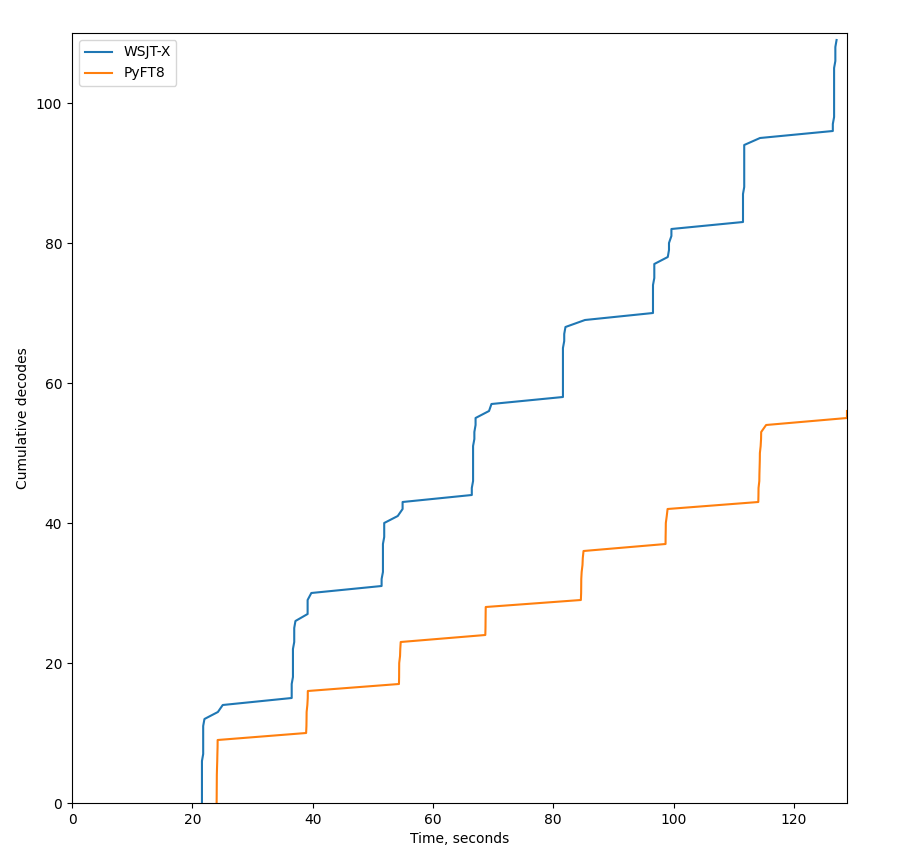
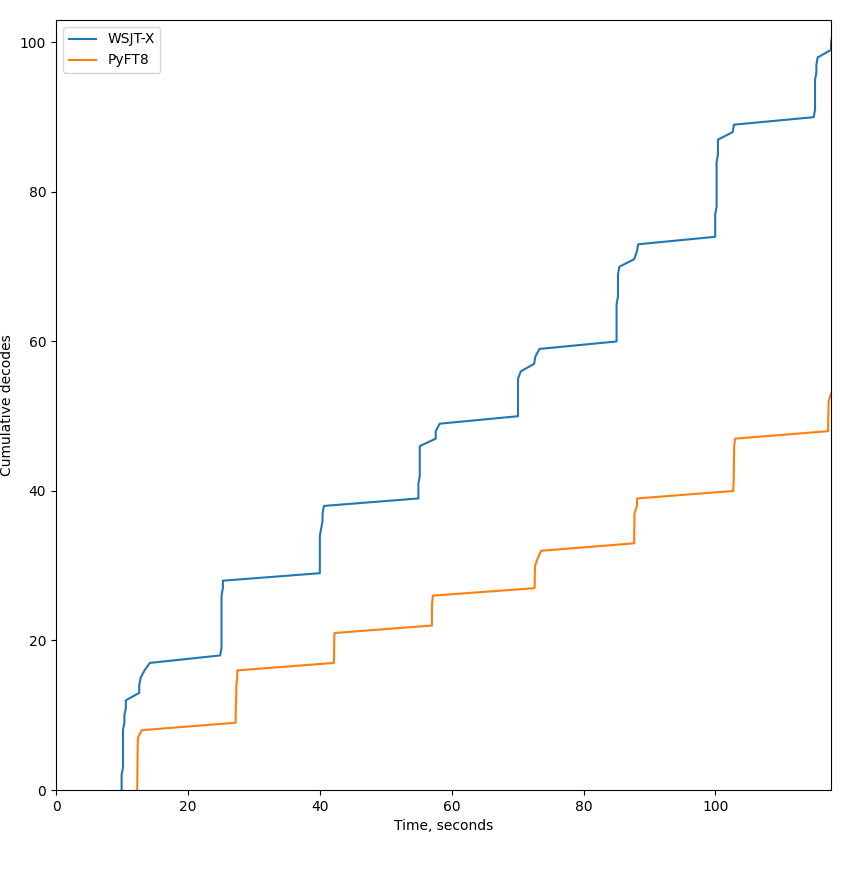
live tests

diff --git a/PyFT8/receiver.py b/PyFT8/receiver.py
@@ -422,7 +422,7 @@ class Receiver():
         print("Rx running")
         ticker_cycle_rollover = Ticker(0)
         ticker_search_for_syncs = Ticker(self.search_start_hop, timing_function = lambda: self.audio_in.search_grid_ptr, cycle_length = self.audio_in.search_hops_per_cycle)
-        to_decode = []
+        
         while True:
             time.sleep(0.040)
             if ticker_cycle_rollover.ticked():                
@@ -430,7 +430,7 @@ class Receiver():
             self.curr_cycle = int((self.audio_in.search_grid_ptr) / self.audio_in.search_hops_per_cycle)
             self.cycle_h0 = int(self.curr_cycle * T_CYC * SYM_RATE * self.audio_in.search_hps)
         
-            
+            to_decode = []
             for c in candidates:
                 if not c.demap_started:
                     cand_abs_h0_idx = c.origin['cycle'] * T_CYC * SYM_RATE * self.audio_in.search_hps + c.origin['t0'] * SYM_RATE * self.audio_in.search_hps
@@ -440,11 +440,10 @@ class Receiver():
                         c.demap(all_audio_spectrum)
                         c.demap_started = self.audio_in.search_grid_ptr
                 if c.llr_sd > self.llr_sd_min and not c.decode_completed:
-                    if not c in to_decode:
-                        to_decode.append(c)
+                    to_decode.append(c)
 
             to_decode.sort(key=lambda c: c.llr_sd, reverse=True)
-            for c in to_decode[:55]:
+            for c in to_decode[:10]:
                 c.decode()
                 if c.msg_tuple:
                     key = c.cyclestart['string'] + ''.join(c.msg_tuple)
@@ -458,7 +457,6 @@ class Receiver():
                 global_time_utils.tlog(f"[Cycle manager] start search at hop {hstart} ({tstart:6.2f}s)", verbose = True)
                 cyclestart = global_time_utils.cyclestart(time.time())
                 candidates = self.search(cyclestart)
-                to_decode = []
                 hstop = self.audio_in.search_grid_ptr
                 if not self.on_busy_profile is None:
                    self.on_busy_profile(*self.get_busy_profile())